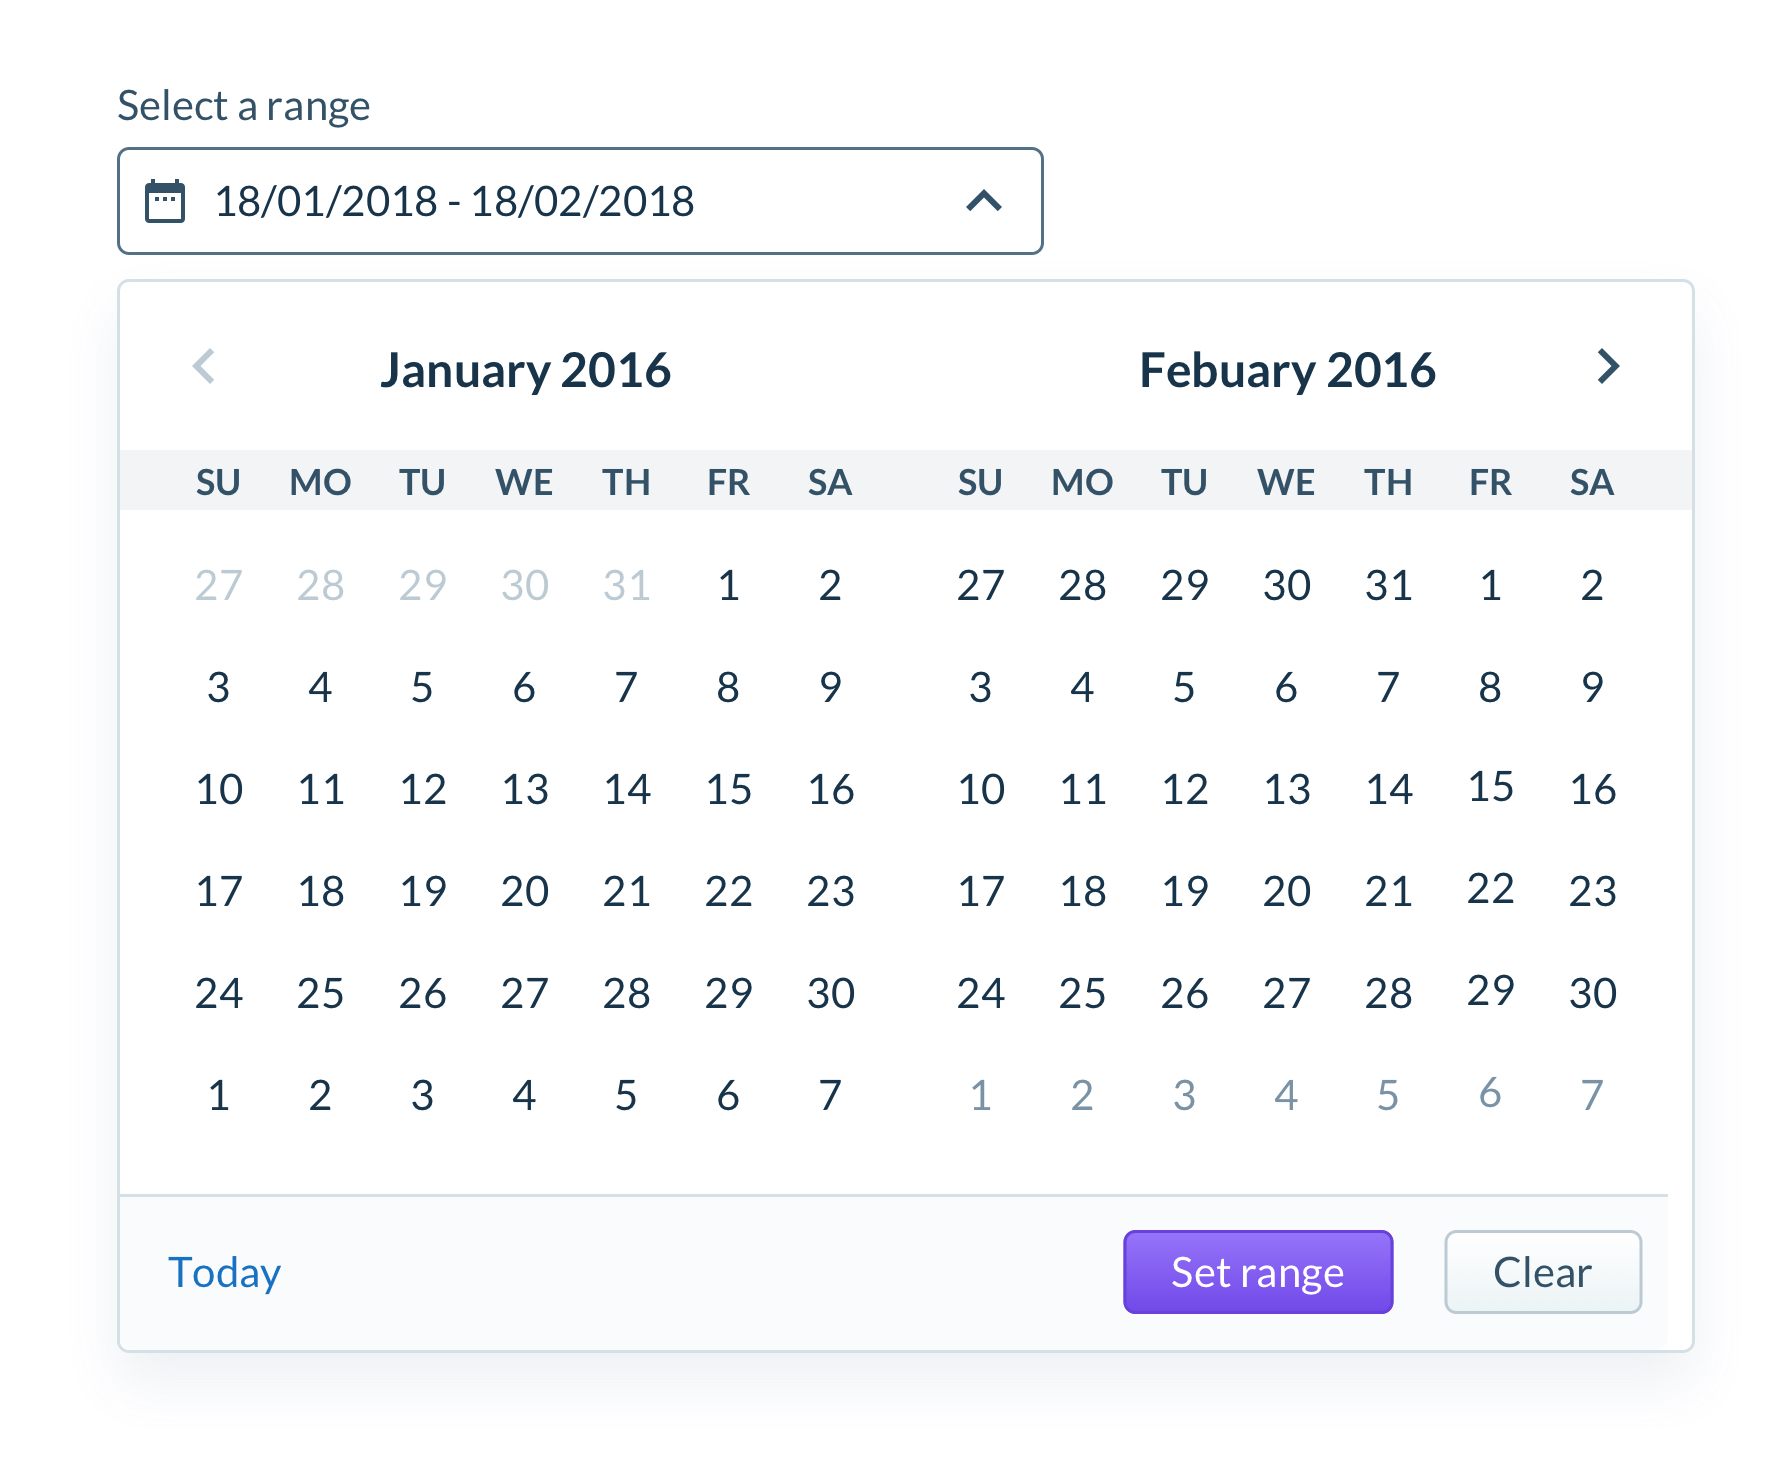
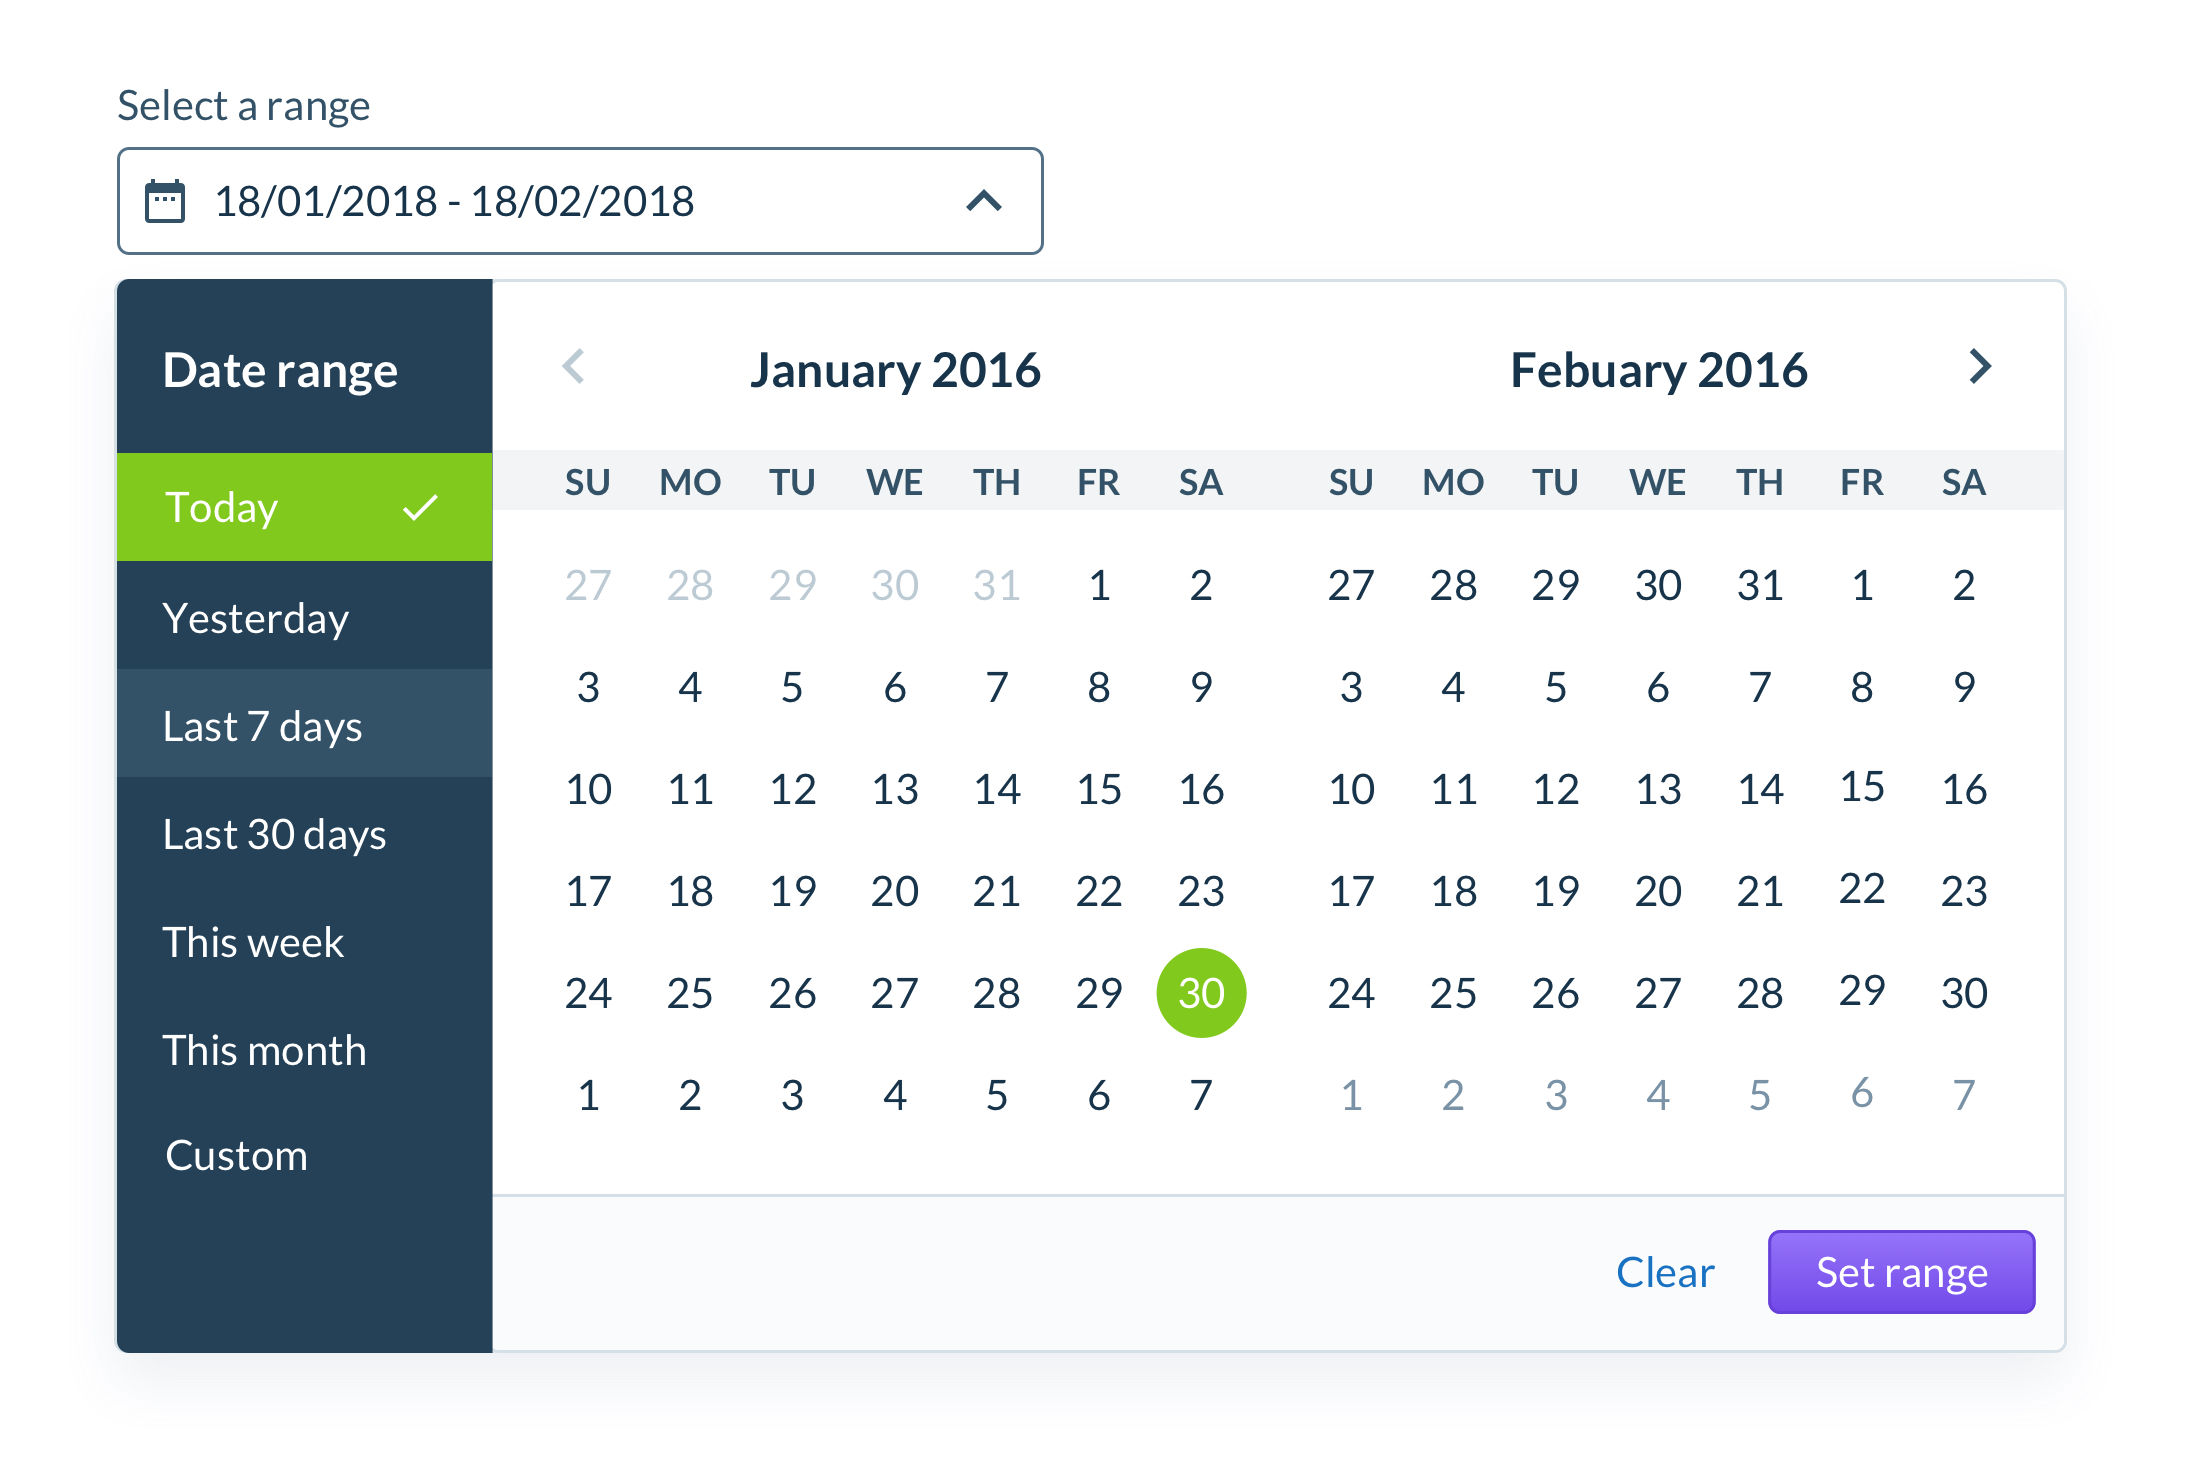
added predified options to range selector

diff --git a/docs/components/date-time-pickers.md b/docs/components/date-time-pickers.md
@@ -72,7 +72,8 @@ the dialog should automatically close after the user has selected both a date an
 
 ### Date Range Selector
 
-Date range pickers allow a range of days to be selected.
+Date range pickers allow a range of days to be selected. Additionaly a list of predefined date ranges can be added to the left of a range picker to
+allow easy access to commonly used options.
 
 {% include images.html caption="Default State" name="type-date-range-custom-default" invisionID="386491315" %}
 
